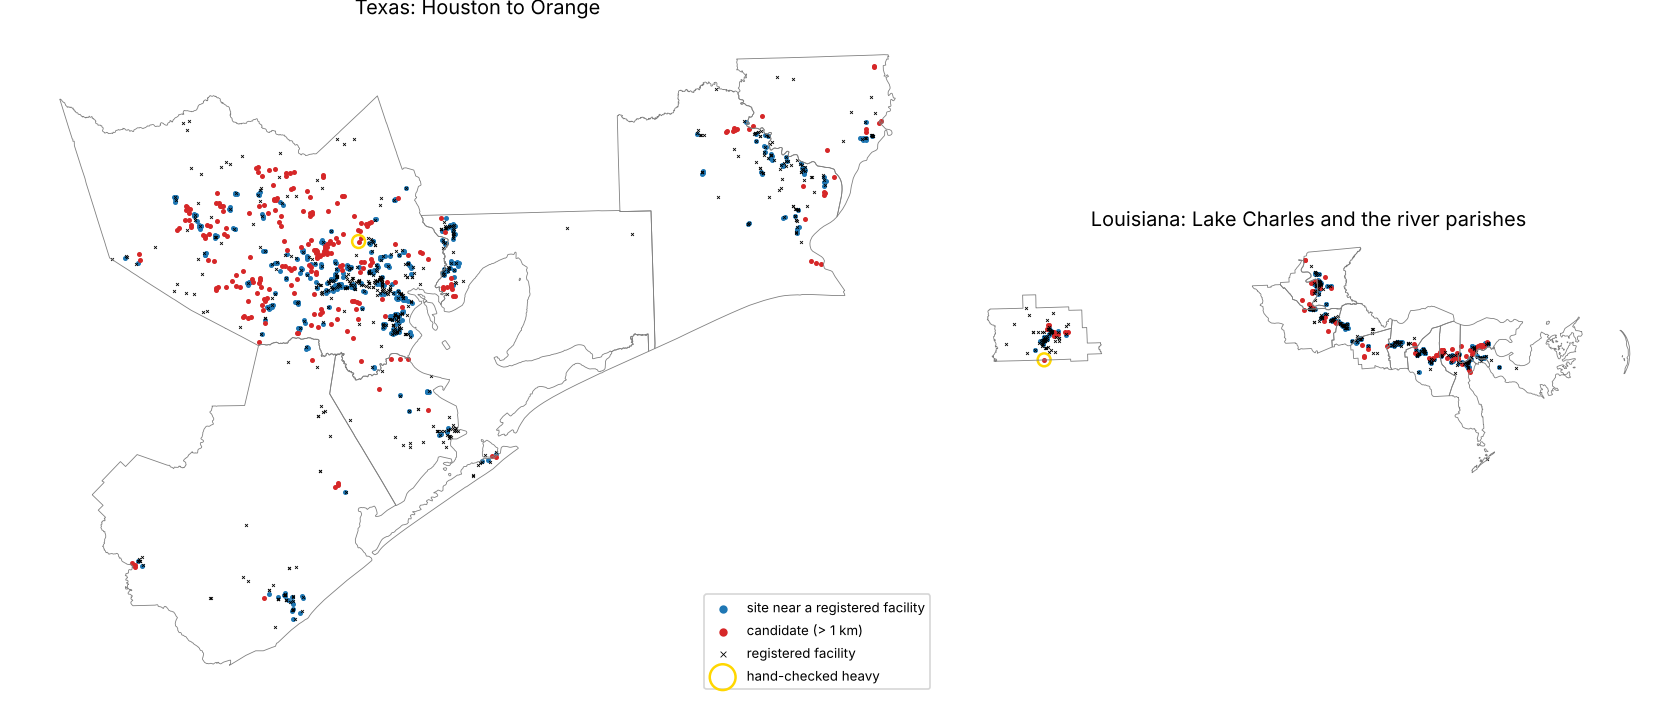
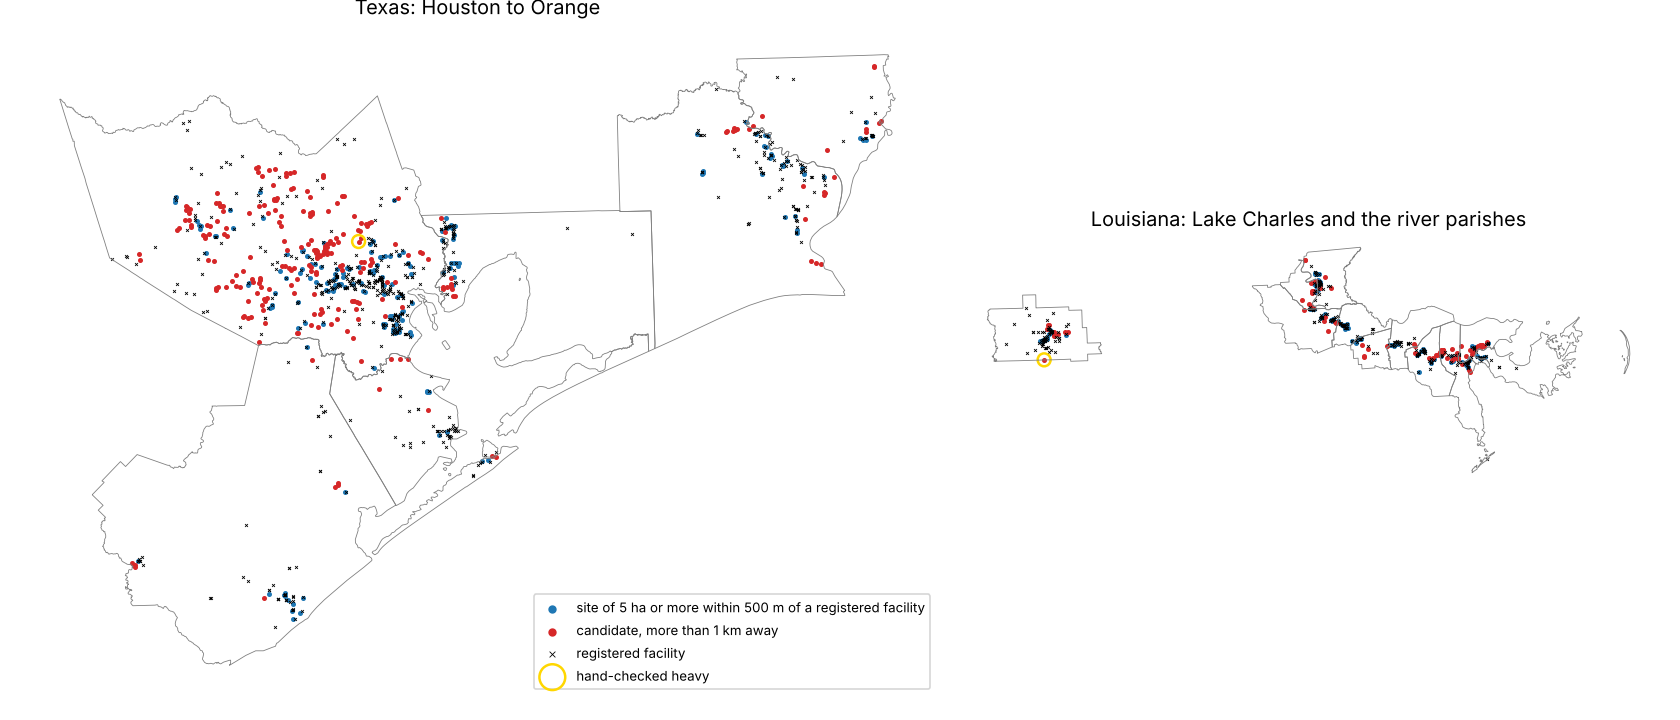
geoembeddings-facility-finder: numbers from a clean-checkout run
Claude-Session: https://claude.ai/code/session_01L5nw7By5PTrTwbbvLb3myB

Changed region(s): [[0.3095, 0.825, 0.5262, 0.9778], [0.1857, 0.3972, 0.2476, 0.4278]]

diff --git a/geoembeddings-facility-finder/README.md b/geoembeddings-facility-finder/README.md
@@ -10,7 +10,7 @@ Can the 10 m AlphaEarth satellite embeddings of known heavy-industry sites find 
 ./run.sh
 ```
 
-It needs [uv](https://docs.astral.sh/uv/), about 12 GB of disk and about 19 GB of downloads. The first run builds the EJScreen and CEJST GeoParquet files by running `../ej-datasets-hifld-next/run.sh` unchanged, with its folders pointed into `data/ej/` (1.4 GB, about 12 minutes). It then runs the notebook `facility_finder.py` as a script. To read the notebook with its outputs, run `uv run marimo edit facility_finder.py`.
+It needs [uv](https://docs.astral.sh/uv/), about 12 GB of disk and about 35 GB of downloads. The first run builds the EJScreen and CEJST GeoParquet files by running `../ej-datasets-hifld-next/run.sh` unchanged, with its folders pointed into `data/ej/` (1.4 GB, about 12 minutes). It then runs the notebook `facility_finder.py` as a script. To read the notebook with its outputs, run `uv run marimo edit facility_finder.py`.
 
 ## Where the data comes from
 
@@ -47,7 +47,7 @@ All numbers come from `outputs/summary.json` and `outputs/candidates.csv`, writt
 - The model can't tell the types apart. Sites it types as refineries are almost never near one. It learns "industrial-looking land".
 - Precision here is a floor on finding real industry. The hand check below measures the rest.
 
-**Candidates.** 324 sites of 5 ha or more (4,535 ha) are more than 1 km from any registered facility of the four types, 241 of them in Harris County. Of these, 246 have another HIFLD Next facility (TRI, power plant, Superfund, gas processing, LNG) within 1 km and 316 have an FRS site within 500 m. Only one has nothing in FRS within 1 km.
+**Candidates.** 324 sites of 5 ha or more (4,535 ha) are more than 1 km from any registered facility of the four types, 194 of them in Harris County. Of these, 246 have another HIFLD Next facility (TRI, power plant, Superfund, gas processing, LNG) within 1 km and 316 have an FRS site within 500 m. Only one has nothing in FRS within 1 km.
 
 **Hand check** of 30 candidates drawn at random (seed 0), on NAIP photos with registered and FRS sites marked (`hand_check.csv`, `outputs/naip/`):
 
@@ -58,19 +58,19 @@ All numbers come from `outputs/summary.json` and `outputs/candidates.csv`, writt
 | Heavy or other industry | 24 | 80% (63–91%) |
 | Not industrial (mall, offices, hospital, self-storage) | 6 | |
 
-- The heavy one is a six-tank storage farm near Sheldon with homes about 300 m away. HIFLD Next has it in no terminal or RMP layer. FRS lists it under Explorer Pipeline as a hazardous-waste and water-permit site, 450 m from the tanks. 1,779 people live within 1 km and about 29,000 within 3 km, all in EJScreen-flagged block groups.
+- The heavy one is a six-tank storage farm near Sheldon with homes about 300 m away. HIFLD Next has it in no terminal or RMP layer. FRS lists it under Explorer Pipeline as a hazardous-waste and water-permit site, 450 m from the tanks. 1,779 people live within 1 km and 31,123 within 3 km, all in EJScreen-flagged block groups.
 - The one candidate with nothing in FRS within 1 km (checked as well, outside the random sample) is equipment laydown inside the Cameron LNG export terminal, whose HIFLD Next point is 2.3 km away on the same site. It's a large-site location problem, not a missing facility.
 - Many of the 23 "other industry" sites sit against homes (rail yards in Beaumont, Baytown and southeast Houston, shipyards in Orange and Port Arthur, metal works in northeast Houston). Within 1 km of them live 73,779 people, 89% in block groups flagged by EJScreen or CEJST; within 3 km, 673,549 (86%). Those counts overlap where sites are close together.
 
 ![Sites and candidates](outputs/sites_map.png)
 
-**Cost and time.** Zero dollars, and no account or key is needed. Reading the 431 blocks downloads about 17 GB of 10 m embeddings. With the HIFLD Next layers (including 440 MB of FRS) and NAIP chips, the total is about 19 GB, plus 1.4 GB for the EJ build. On 4 CPUs the first run took about X minutes. The block reads take about 9 minutes with 32 parallel readers; the scan, about 1.5 minutes. A rerun reuses the cached blocks (7 GB in `data/aef/`) and takes about 4 minutes.
+**Cost and time.** Zero dollars, and no account or key is needed. The 431 blocks hold 17 GB of compressed 10 m embeddings, but GDAL fetched 32.9 GB to read them, about 2.2 times the block bytes, whatever chunk-size setting we tried. With the HIFLD Next layers (including 440 MB of FRS), the notebook downloaded 33.3 GB, plus 1.4 GB for the EJ build. On 4 CPUs a clean checkout took 16 minutes: 8 for the EJ build and 7.8 for the notebook. Of that, 4 minutes went to the block reads with 32 parallel readers and about 1.5 to the scan. Earlier runs on the same machine took 9 minutes for the reads. A rerun reuses the cached blocks (7 GB in `data/aef/`) and takes about 4 minutes.
 
 ## What didn't work
 
 - **Telling the four facility types apart.** Type precision is 0 to 34%, and the model calls refineries RMP sites.
 - **Small sites.** Below 5 ha, four in five flagged sites are away from any registry, and those are mostly roofs, parking and yards.
-- **Windowed reads.** The files store each of the 64 bands in separate 10 km blocks, so a read around one facility costs a whole block (about 40 MB). One block took 4 to 26 seconds on its own, so throughput comes from reading 32 blocks at once.
+- **Windowed reads.** The files store each of the 64 bands in separate 10 km blocks, so a read around one facility costs a whole block (about 40 MB compressed, and GDAL fetches about twice that). One block took 4 to 26 seconds on its own, so throughput comes from reading 32 blocks at once.
 - **The newest NAIP year** sometimes only grazed a chip and left it black. The notebook now takes the newest year that covers the whole chip.
 
 ## What it doesn't show
